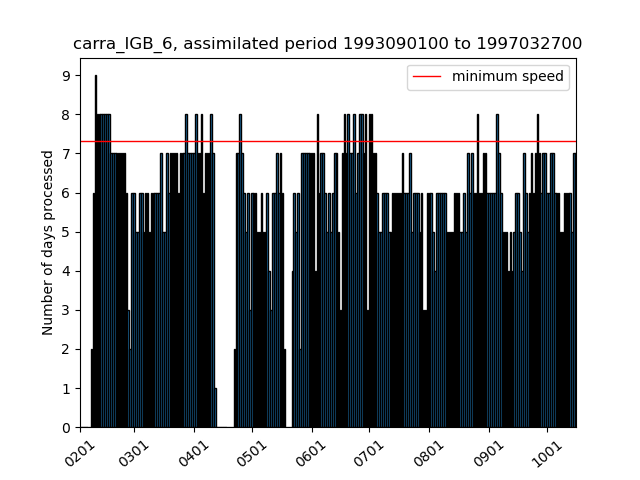
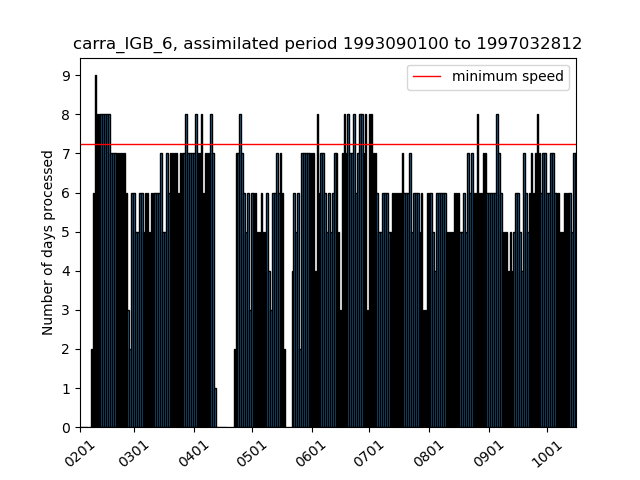
update repo

Changed region(s): [[0.125, 0.2812, 0.9062, 0.3125], [0.8438, 0.0625, 0.9062, 0.125]]

diff --git a/current_state_sims.html b/current_state_sims.html
@@ -2,18 +2,18 @@
 <h1>Estimated completion dates and simulation speeds</h1>
 <p>Stream (production) completion date based on 30d (7d) moving avg speed</p>
 <p><a href="https://docs.google.com/document/d/1zDKAxuEXYnWWYzT3SZnZwY5WW8nodUMeYRjAGz46coc/edit#">Details of the calculation of the completion dates</a></p>
-<p>Last update: 2021/10/17 06:41:59 UTC</p>
+<p>Last update: 2021/10/17 12:39:43 UTC</p>
 <p>Total progress CARRA: 99.66% <a href="https://hirlam.org/portal/CARRA/Progress/GanntChart_CARRA.html"> (see detailed progress meter in Gantt chart) </a></p>
 <p>Total progress PANARCTIC: 91.67% </p>
 <p><a href="https://hirlam.org/portal/CARRA/Progress/waiting_times.html"> Queue waiting times for all streams</a></p>
 <p><a href="https://hirlam.org/portal/CARRA/Progress/mars_status.html"> MARS archive throughput </a></p>
 <html><table border="1"><tr><th>expId</th><th>Current assimilated date</th><th>End date of stream </th><th> Completion date</th><th> Avg. throughput (7d) </th> <th>Avg. throughput (30d) </th> <th> Remarks</tr>
-<tr bgcolor="#33FF38"><td>carra_NE_3</td><td>2021070100</td><td>2021063021</td><td>2021101523</td><td>(0.14) days/day</td><td>(0.77) days/day</td><td>Stream finished</tr>
+<tr bgcolor="#33FF38"><td>carra_NE_3</td><td>2021070100</td><td>2021063021</td><td>2021101605</td><td>(0.14) days/day</td><td>(0.77) days/day</td><td>Stream finished</tr>
 <tr bgcolor="#33FF38"><td>carra_NE_4</td><td>1992090100</td><td>1992083021</td><td>Finished on 20210824</td><td>(0.0) days/day</td><td>(0.0) days/day</td><td>Stream finished</tr>
 <tr bgcolor="#33FF38"><td>carra_NE_5</td><td>1994090100</td><td>1994083021</td><td>Finished on 20210824</td><td>(0.0) days/day</td><td>(0.0) days/day</td><td>Stream finished</tr>
 <tr bgcolor="#33FF38"><td>carra_NE_6</td><td>1997070100</td><td>1997063021</td><td>Finished on 20210915</td><td>(0.0) days/day</td><td>(0.0) days/day</td><td>Stream finished</tr>
-<tr bgcolor="#33FF38"><td>carra_IGB_3</td><td>2021070100</td><td>2021063021</td><td>2021101604</td><td>(0.14) days/day</td><td>(0.93) days/day</td><td>Stream finished</tr>
+<tr bgcolor="#33FF38"><td>carra_IGB_3</td><td>2021070100</td><td>2021063021</td><td>2021101610</td><td>(0.14) days/day</td><td>(0.93) days/day</td><td>Stream finished</tr>
 <tr bgcolor="#33FF38"><td>carra_IGB_4</td><td>1992090100</td><td>1992083021</td><td>Finished on 20210907</td><td>(0.0) days/day</td><td>(0.0) days/day</td><td>Stream finished</tr>
-<tr bgcolor="#33FF38"><td>carra_IGB_5</td><td>1994090100</td><td>1994083021</td><td>2021101602</td><td>(0.0) days/day</td><td>(1.7) days/day</td><td>Stream finished</tr>
-<tr bgcolor="#FFA500"><td>carra_IGB_6</td><td>1997032700</td><td>1997063021</td><td>2021110116</td><td>(6.14) days/day</td><td>(6.17) days/day</td><td>Completion date after project end (20211031)</tr>
-<tr bgcolor="#33FF38"><td>carra_pan</td><td>2018090100</td><td>2018090100</td><td>2021101706</td><td>(0.0) days/day</td><td>(2.53) days/day</td><td>Stream finished</tr>
+<tr bgcolor="#33FF38"><td>carra_IGB_5</td><td>1994090100</td><td>1994083021</td><td>2021101608</td><td>(0.0) days/day</td><td>(1.7) days/day</td><td>Stream finished</tr>
+<tr bgcolor="#FFA500"><td>carra_IGB_6</td><td>1997032812</td><td>1997063021</td><td>2021110118</td><td>(6.14) days/day</td><td>(6.17) days/day</td><td>Completion date after project end (20211031)</tr>
+<tr bgcolor="#33FF38"><td>carra_pan</td><td>2018090100</td><td>2018090100</td><td>2021101712</td><td>(0.0) days/day</td><td>(2.53) days/day</td><td>Stream finished</tr>
